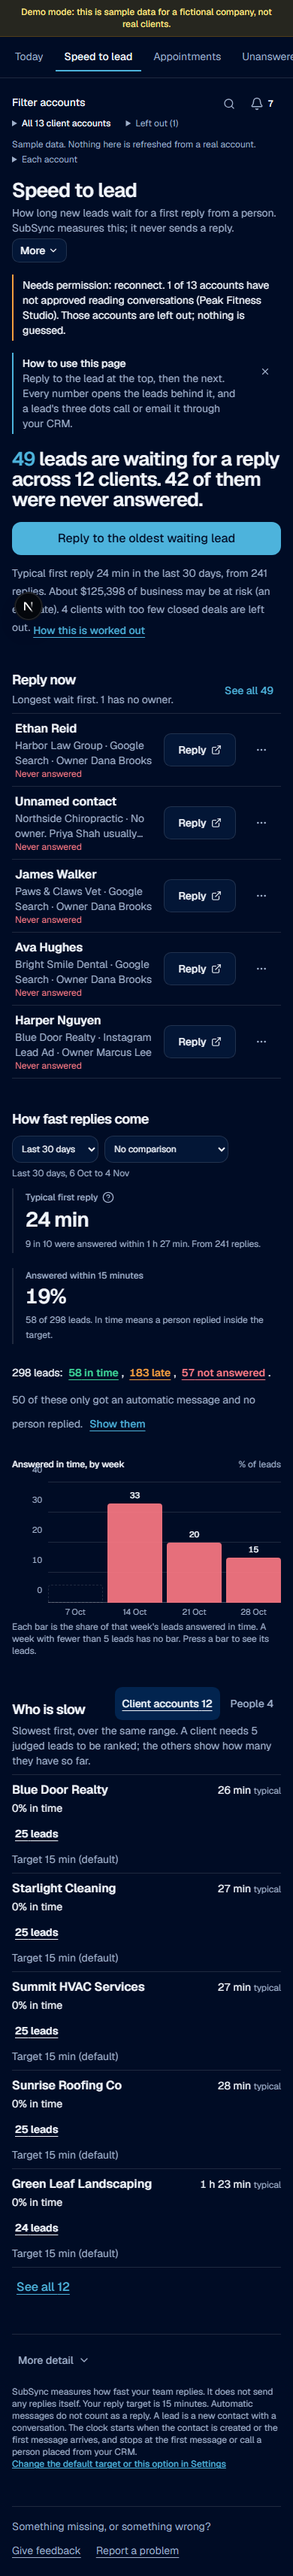
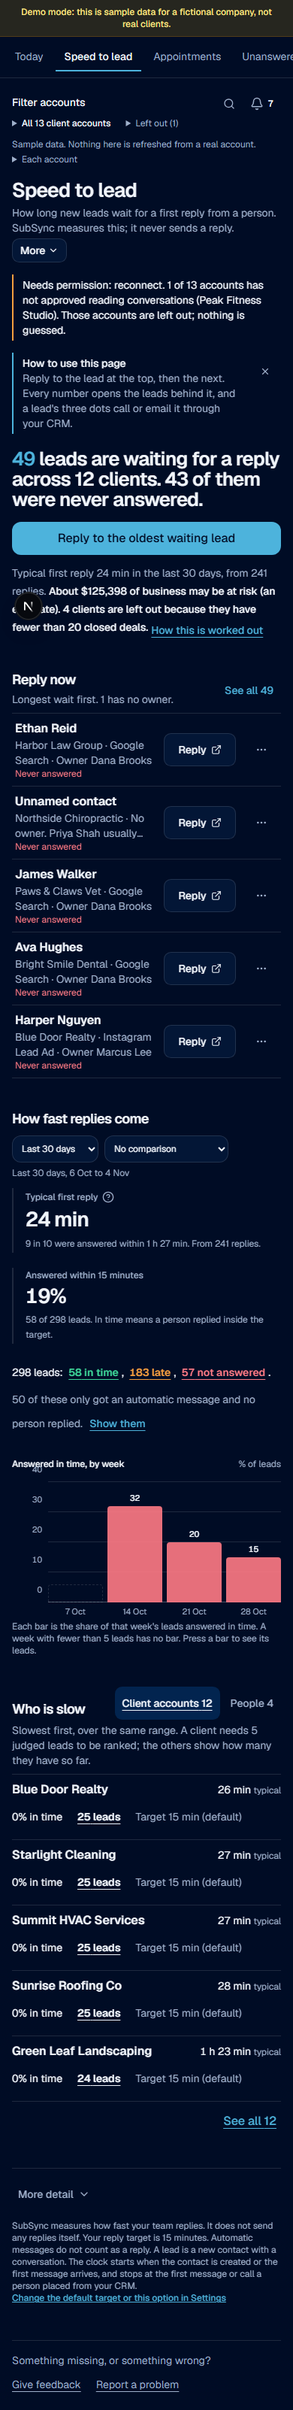
stage SPEED: weekly chart note for an all-zero range, verification results

diff --git a/src/app/app/views/speed-picture.tsx b/src/app/app/views/speed-picture.tsx
@@ -135,7 +135,9 @@ export function FastSection({ d, range, open, showAccount, reload }: { d: Pictur
       )}
       {weeks.length >= 2 && (
         <div className="mt-6" data-testid="speed-weeks">
-          {weeks.every((w) => w.hitRate === null)
+          {weeks.some((w) => w.hitRate !== null) && weeks.every((w) => w.hitRate === null || w.hitRate === 0)
+            ? <p className="text-sm text-muted-foreground" data-testid="speed-weeks-zero">No week in this range had a lead answered in time, so there is nothing to chart. The numbers above show every lead.</p>
+            : weeks.every((w) => w.hitRate === null)
             ? <ChartPlaceholder title="Answered in time, by week" need={5} have={weeks.reduce((m, w) => Math.max(m, w.leads), 0)} unit="leads in one week">{" "}A week needs 5 judged leads before it shows a bar.</ChartPlaceholder>
             : <BarChart title="Answered in time, by week" axisLabel="% of leads" unit="%" format={(n) => `${Math.round(n)}`} sample={weeks.reduce((x, w) => x + w.leads, 0)} min={5} need="leads" noun="leads" bars={weekBars(weeks)}
                 onSelect={(i) => open({ title: `Week of ${weekBars([weeks[i]])[0].label}`, params: { status: "all", week: String(weeks[i].index) } })} />}

diff --git a/docs/features/SPEED.md b/docs/features/SPEED.md
@@ -93,3 +93,20 @@ Written and run, with the commands and results in "Verification". `src/lib/__tes
 5. *A real business-hours clock* (F2 proposal 3): the same function, a metric version.
 
 **Local-only changes not committed:** `next.config.ts` has a `turbopack.root` line and `tsconfig.json` was edited by `next typegen` (both marked skip-worktree).
+
+## Verification (commands run in `C:\Users\KING\wt\SPEED`, 5 Nov 2026; the dev server on port 3131 reads the real database through the demo company)
+
+| Command | Result |
+|---|---|
+| `npx next typegen && npx tsc --noEmit` | clean |
+| `npx eslint src tests scripts/check-tenancy.ts` | 0 errors, 12 warnings, none in a file of this stage |
+| `node --test src/lib/__tests__/` | 879 tests, 879 pass, 0 fail (18 are the new `speed-v2.test.ts`, including the 150-account scale test and the Today-agreement test) |
+| `npx vitest run tests/unit/speed-v2-db.test.ts --no-file-parallelism` | 5 passed, 1 skipped (the saved-target test skips itself until the column exists); fixture companies removed afterwards |
+| `npx vitest run tests/unit/speed-ui.test.ts access-roles route-registry client-access speed-f2 golden-speed today-lists` | all pass |
+| `npx vitest run tests/unit/data-inventory.test.ts` | 1 FAILED, expected: "locations columns: migration files against the live database". The migration file adds `speed_target_minutes`; the live database does not have it until the merge applies the migration. It passes once the migration has run. |
+| `PW_BASE_URL=http://localhost:3131 npx playwright test tests/e2e/speed-v2.spec.ts` (one group at a time) | desktop-1440: all 12 pass (four roles; See all; figure to list counts; Today agreement for agency, business and client; every figure's count equals its list for months, weeks, clients and people; tenancy; the target without the column; call and email menu and lead panel; range in the address). tablet-768 and phone-390: the four role tests pass (no sideways scroll, thumb-sized buttons at 390). |
+| `npx playwright test tests/e2e/speed.spec.ts --project=desktop-1440` (the older API tests of the answers Today and the alerts still read) | 7 of 8 pass (the one timing out at the default 90 s passes with `--timeout=500000`). **1 FAILS and is not from this stage:** "contacts that are not leads are left out" expects the demo to hold left-out contacts of the reasons import, spam, test and duplicate; the demo today has only "do not contact" and "test" (the old screenshot, taken before any change, shows 12 and 9). The left-out query is untouched. |
+| `TURBOPACK_ROOT=C:/Users/KING TEST_PORT=3133 TEST_DIST_DIR=.next-speed-t CHECKS=check-tenancy node scripts/with-dev-server.mjs` | **NOT a clean pass.** Two runs got through all the cross-read sweeps (which include the six new Speed addresses with the other agency's accounts and a person id) and all forged writes (which include the new `PUT speed/target` on the other agency's account, refused with a 4xx) and then both stopped at `scripts/check-tenancy.ts:190`: `select id from connections where installation_id = <agency B>` returned no row, i.e. the fixture connection of the other agency was already gone. That line and the connection fixture are not part of this stage; the same fixture worked on the Duplicates branch before the Connections changes were merged, so the lead should run the check on main to see whether it is the Connections stage. Fixtures were removed (checked: no `xtest-` installations left). |
+| Screenshots | `docs/review/speed-<role>-<390|768|1440>.png` and `-full.png` (new), `docs/review/speed-old-<role>-<width>.png` (before; the client's staff at 1440 was not captured) |
+
+One fix found by the tests: the first role test failed because the headline number counts up when the page opens (the test read it mid-animation); the test now waits for it. The target test failed because the write answered 503 before it checked the account existed; `setAccountTarget` now checks the account belongs to the caller's company first, so another company's account is always "not found" with or without the database update.
